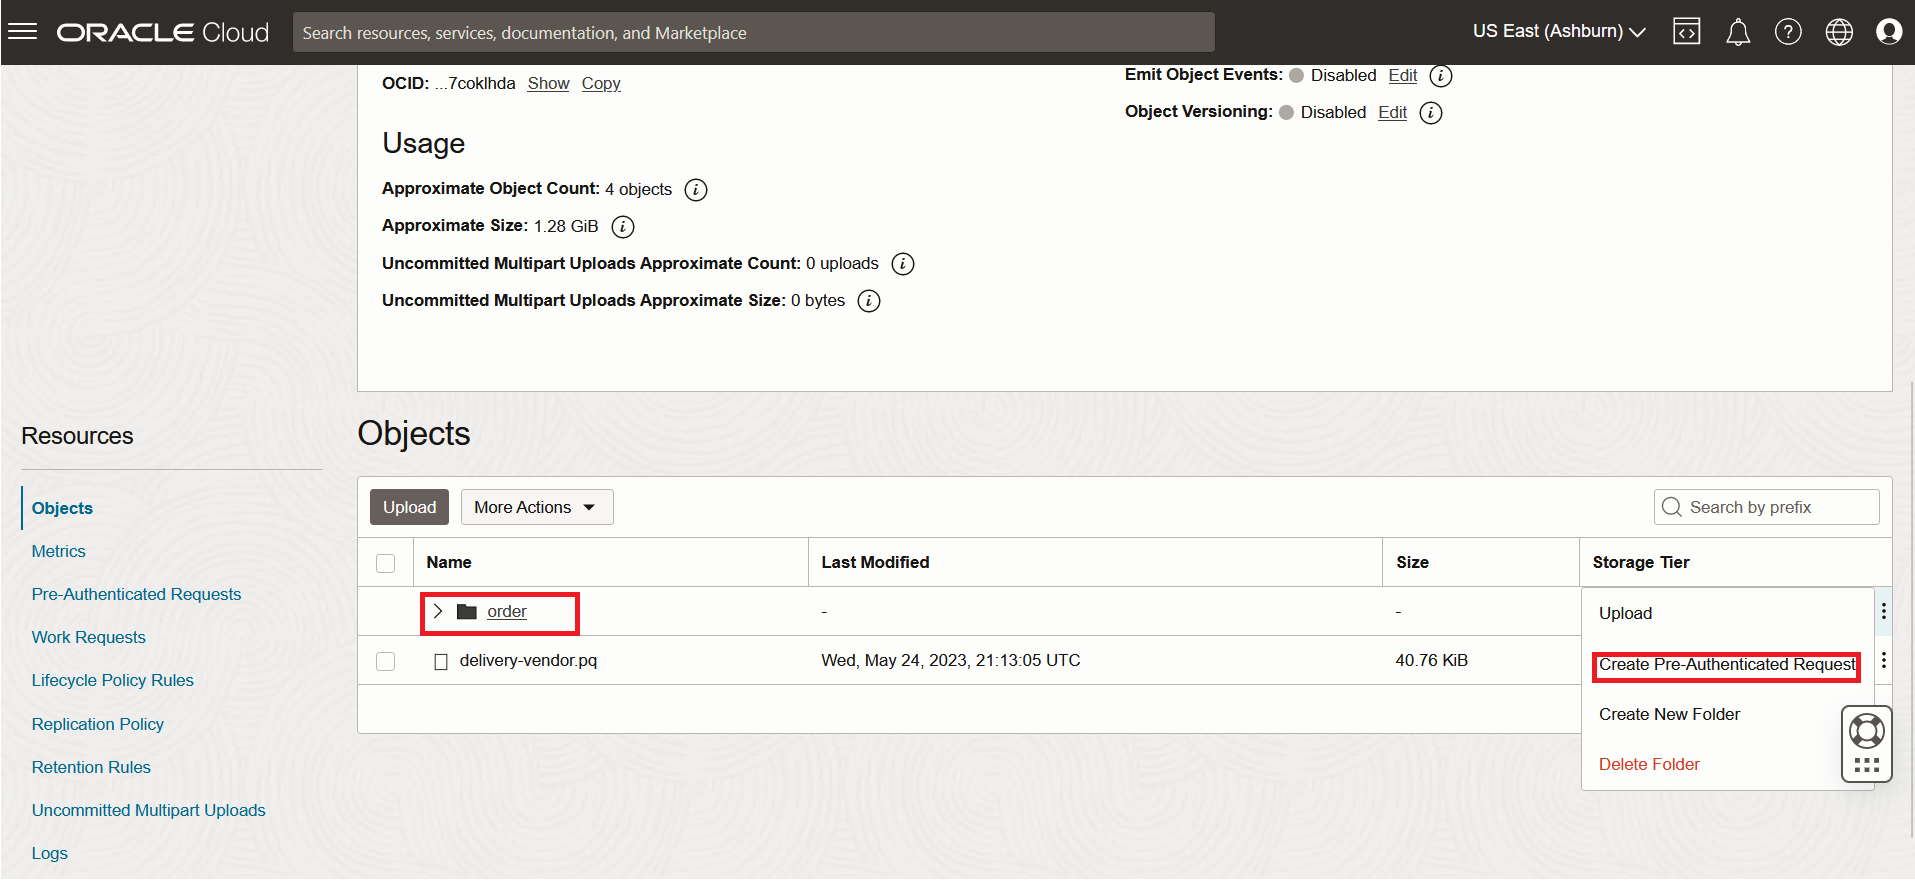
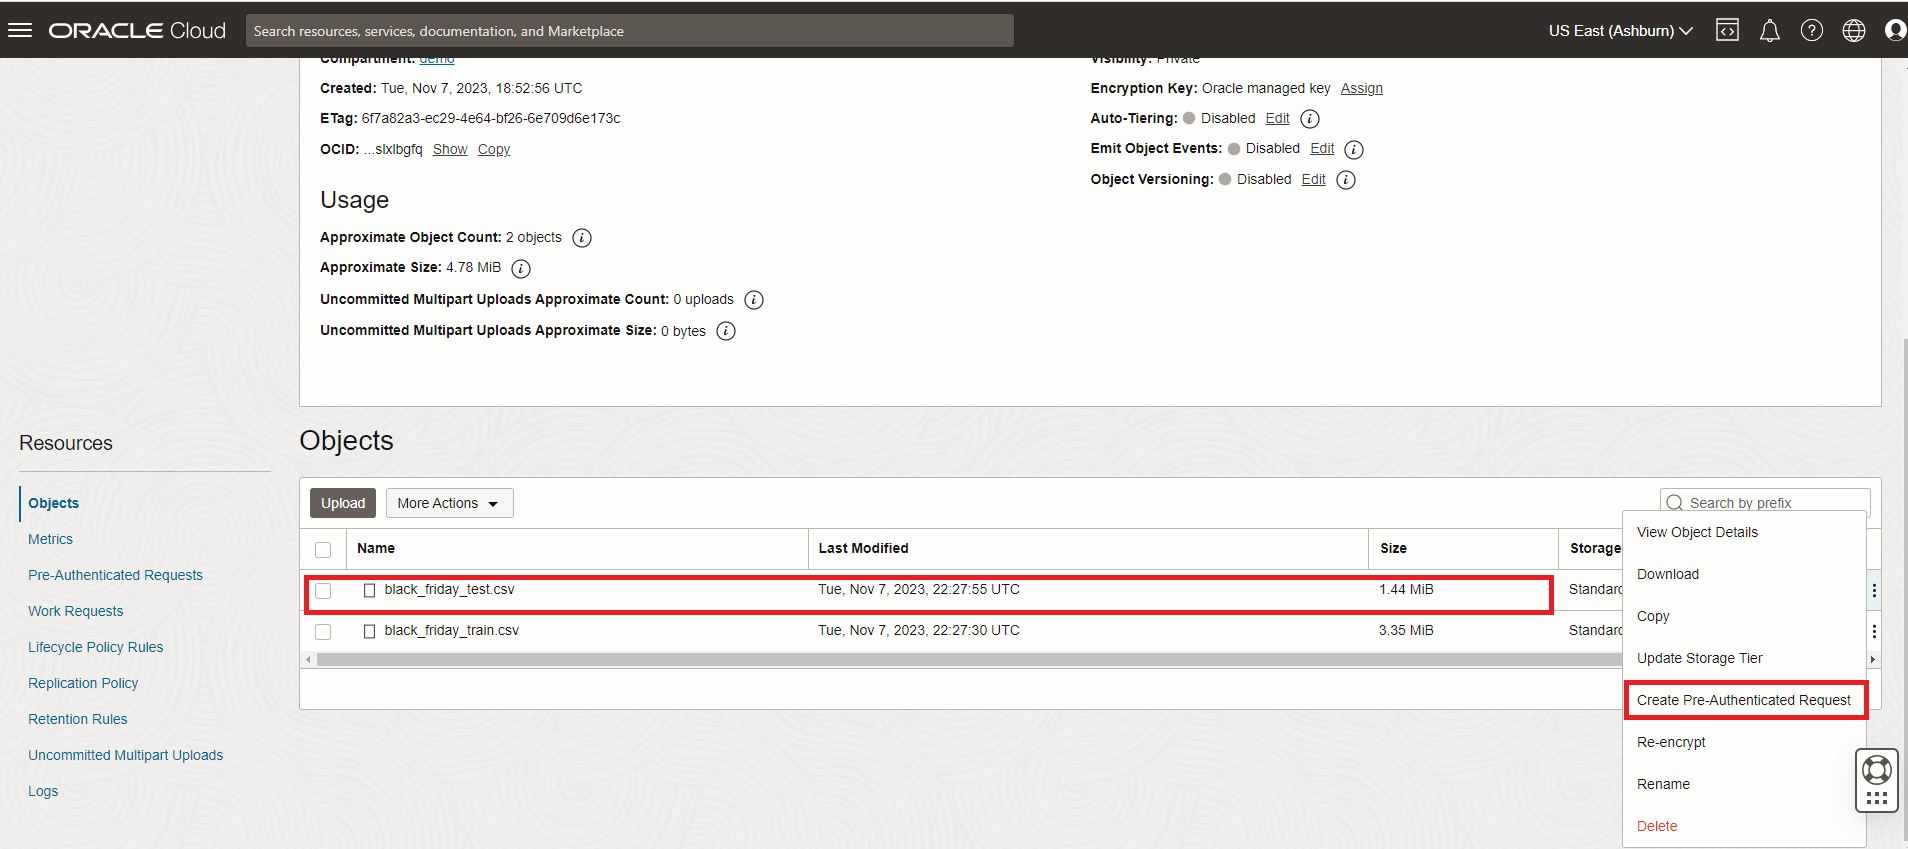
Updated
Updated

diff --git a/load-black-friday-data/load-black-friday-data.md b/load-black-friday-data/load-black-friday-data.md
@@ -6,17 +6,17 @@ To load data from Object Storage to HeatWave, you need to specify the location o
 
 1. Use [Resource Principal](https://docs.oracle.com/en-us/iaas/autonomous-database-serverless/doc/resource-principal-enable.html) - It is recommended that you use Resource Principal-based approach for access to data in Object Storage for more sensitive data as this approach is more secure.
 
-2. Use [Pre-Authenticated Request URLs (PARs)](https://docs.oracle.com/en-us/iaas/Content/Object/Tasks/usingpreauthenticatedrequests.htm) - If you choose to use PARs, we recommend that you use read-only PARs with Lakehouse and specify short expiration dates for your PARs. The expiration dates should align with your loading schedule. 
+2. Use [Pre-Authenticated Request URLs (PARs)](https://docs.oracle.com/en-us/iaas/Content/Object/Tasks/usingpreauthenticatedrequests.htm) - If you choose to use PARs, we recommend that you use read-only PARs with Lakehouse and specify short expiration dates for your PARs. The expiration dates should align with your loading schedule.
 
 Since we are using a sample data set, we will make use of PAR in this LiveLab. We already have several tables available in HeatWave that have been loaded from MySQL.
 
-We will now load the DELIVERY_ORDERS table from the Object Store. This is a large table with 30 million rows and contains information about the delivery vendor for orders.
+We will now load the Black Friday tables from the Object Store.
 
 ### Objectives
 
 - Create PAR Link for the  "delivery_order" files
 - Run Autoload to infer the schema and estimate capacity
-- Load complete DELIVERY table from Object Store into MySQL HeatWave
+- Load complete black_friday tables from Object Store into MySQL HeatWave
 
 ### Prerequisites
 
@@ -24,30 +24,39 @@ We will now load the DELIVERY_ORDERS table from the Object Store. This is a larg
 - Some Experience with MySQL Shell
 - Completed Lab 5
 
-## Task 1: Create the PAR Link for the "delivery_order" files
+## Task 1: Create the PAR Link for the "black\_friday" files
 
-1. Create a PAR URL for all of the **order folder** objects with a prefix
+1. Create a PAR URL for the **black\_friday\_train.csv** object
 
     - a. From your OCI console, navigate to your lakehouse-files bucket in OCI.
-    - b. Select the folder —> order and click the three vertical dots.
+    - b. Select the black\_friday\_train.csv file and click the three vertical dots.
 
-        ![Select  folder](./images/storage-delivery-orders-folder.png "storage delivery order folder")
+        ![Select  black_friday_train.csv](./images/storage-delivery-orders-folder.png "storage black_friday_train.csv")
 
     - c. Click on ‘Create Pre-Authenticated Request’
-    - d. Click to select the ‘Objects with prefix’ option under ‘PreAuthentcated Request Target’.
-    - e. Leave the ‘Access Type’ option as-is: ‘Permit object reads on those with the specified prefix’.
-    - g. Click to select the ‘Enable Object Listing’ checkbox.
+    - d. Click to select the ‘Object’ option under ‘PreAuthentcated Request Target’.
+    - e. Leave the ‘Access Type’ option as-is: ‘Permit object reads’.
     - h. Click the ‘Create Pre-Authenticated Request’ button.
 
        ![Create Folder PAR](./images/storage-delivery-orders-folder-page.png "storage delivery order folder page")
 
     - i. Click the ‘Copy’ icon to copy the PAR URL.
     - j. Save the generated PAR URL; you will need it later.
-    - k. You can test the URL out by pasting it in your browser. It should return output like this:
-
-        ![List folder file](./images/storage-delivery-orders-folder-list.png "storage delivery order folder list")
 
 2. Save the generated PAR URL; you will need it in the next task
+
+3. Do the same to create a PAR URL for the **black\_friday\_test.csv** object
+
+    - a. From your OCI console, navigate to your lakehouse-files bucket in OCI.
+    - b. Select the black\_friday\_test.csv file and click the three vertical dots.
+    - c. Click on ‘Create Pre-Authenticated Request’
+    - d. Click to select the ‘Object’ option under ‘PreAuthentcated Request Target’.
+    - e. Leave the ‘Access Type’ option as-is: ‘Permit object reads’.
+    - h. Click the ‘Create Pre-Authenticated Request’ button.
+    - i. Click the ‘Copy’ icon to copy the PAR URL.
+    - j. Save the generated PAR URL; you will need it later.
+
+4. Save the generated PAR URL; you will need it in the next task
 
 ## Task 2: Connect to your MySQL HeatWave system using Cloud Shell
 
@@ -73,44 +82,40 @@ We will now load the DELIVERY_ORDERS table from the Object Store. This is a larg
 
     ![Databse Schemas](./images/list-schemas-after.png "list schemas after")
 
-4. Change to the mysql\_customer\_orders database
-
-    Enter the following command at the prompt
+4. Create the Machine Learning schema 
 
     ```bash
-    <copy>USE mysql_customer_orders;</copy>
+    <copy>CREATE DATABASE heatwaveml_bench;</copy>
     ```
 
-5. To see a list of the tables available in the mysql\_customer\_orders schema
-
-    Enter the following command at the prompt
+5. Set new database as default
 
     ```bash
-    <copy>show tables;</copy>
+    <copy>use heatwaveml_bench;</copy>
     ```
 
     You are now ready to use Autoload to load a table from the object store into MySQL HeatWave
 
-## Task 3: Run Autoload to infer the schema and estimate capacity required for the DELIVERY table in the Object Store
+## Task 3: Run Autoload to infer the schema and estimate capacity for the black\_friday tables in the Object Store
 
-1. The DELIVERY information for orders is contained in the delivery-orders-*1*.csv files in object store for which we have created a PAR URL in the earlier task. Enter the following commands one by one and hit Enter.
+1. The data is contained in the black\_friday\_train.csv file in object store for which we have created a PAR URL in the earlier task. Enter the following commands one by one and hit Enter.
 
 2. This sets the schema we will load table data into. Don’t worry if this schema has not been created. Autopilot will generate the commands for you to create this schema if it doesn’t exist.
 
     ```bash
-    <copy>SET @db_list = '["mysql_customer_orders"]';</copy>
+    <copy>SET @db_list = '["heatwaveml_bench"]';</copy>
     ```
 
 3. This sets the parameters for the table name we want to load data into and other information about the source file in the object store. Substitute the **(PAR URL)** below with the one you generated in the previous task:
 
     ```bash
     <copy>SET @dl_tables = '[{
-    "db_name": "mysql_customer_orders",
+    "db_name": "heatwaveml_bench",
     "tables": [{
-        "table_name": "delivery_orders",
+        "table_name": "black_friday_train",
         "dialect": {
             "format": "csv",
-            "field_delimiter": "\\t",
+            "field_delimiter": ",",
             "record_delimiter": "\\r\\n",
             "has_header": true,
             "is_strict_mode": false},
@@ -142,70 +147,95 @@ We will now load the DELIVERY_ORDERS table from the Object Store. This is a larg
     - c. Auto schema sampling samples a small number of rows from the table and determines the number of rows in the table and the size of the table.
     - d. Auto provisioning determines how much memory would be needed to load this table into HeatWave and how much time loading this data take.
 
+
+    ![Dryrun script](./images/load-script-dryrun.png "load script dryrun")
+
 7. Autoload also generated a statement lke the one below. Execute this statement now.
 
     ```bash
     <copy>SELECT log->>"$.sql" AS "Load Script" FROM sys.heatwave_autopilot_report WHERE type = "sql" ORDER BY id;</copy>
     ```
 
-    ![Dryrun script](./images/load-script-dryrun.png "load script dryrun")
 
 8. The execution result contains the SQL statements needed to create the table and then load this table data from the Object Store into HeatWave.
 
-    ![Create Table](./images/create-delivery-order.png "create delivery order")
+    ![create train table](./images/create-delivery-order.png "create train table")
 
-9. Copy the **CREATE TABLE** command from the results. It should look like the following example
-
-    ![autopilot create table with no field name](./images/create-table-no-fieldname.png "autopilot create table with no field name")
+9. Copy the **CREATE TABLE** command from the results.
 
 10. Execute the **CREATE TABLE** command to create the delivery_orders table.
 
 11. The create command and result should look lie this
 
-    ![Delivery Table create](./images/create-delivery-table.png "create delivery table")
+    ![ result train table](./images/create-delivery-table.png "result train table")
 
-## Task 4: Load complete DELIVERY table from Object Store into MySQL HeatWave
+## Task 4: Load the black\_friday\_train table from Object Store into MySQL HeatWave
 
 1. Run this command to see the table structure created.
 
     ```bash
-    <copy>desc delivery_orders;</copy>
+    <copy>desc black_friday_train;</copy>
     ```
 
-    ![Delivery Table structure](./images/describe-delivery-table.png "describe delivery table")
+    ![black_friday_train Table structure](./images/describe-delivery-table.png "black_friday_train Table structure")
 
 2. Now load the data from the Object Store into the ORDERS table.
 
     ```bash
-    <copy> ALTER TABLE `mysql_customer_orders`.`delivery_orders` SECONDARY_LOAD; </copy>
+    <copy> ALTER TABLE `heatwaveml_bench`.`black_friday_train` SECONDARY_LOAD; </copy>
     ```
 
 3. Check the number of rows loaded into the table.
 
     ```bash
-    <copy>select count(*) from delivery_orders;</copy>
+    <copy>select count(*) from black_friday_train;</copy>
     ```
 
-    The DELIVERY table has 34 million rows.
+    The black\_friday\_train table has 116698 rows.
 
 4. View a sample of the data in the table.
 
     ```bash
-    <copy>select * from delivery_orders limit 5;</copy>
+    <copy>select * from black_friday_train limit 5;</copy>
     ```
 
-5. Join the delivery_orders table with other table in the schema
+## Task 5: Create and Load the black\_friday\_test table from Object Store into MySQL HeatWave
+
+1. Create the black\_friday\_test table by copying the following command and replace the  (PAR URL) with the black\_friday\_test.csv PAR URL  you saved earlier. It will be the source for the black\_friday\_test.csv table:
 
     ```bash
-    <copy> select o.* ,d.*  from  orders o
-    join delivery_orders d on o.order_id = d.order_id
-    where o.order_id = 93751524; </copy>
+    <copy>CREATE TABLE `heatwaveml_bench`.`black_friday_test`( `col_1` varchar(1) NOT NULL COMMENT 'RAPID_COLUMN=ENCODING=VARLEN', `Age` varchar(5) NOT NULL COMMENT 'RAPID_COLUMN=ENCODING=VARLEN', `Occupation` tinyint unsigned NOT NULL, `City_Category` varchar(1) NOT NULL COMMENT 'RAPID_COLUMN=ENCODING=VARLEN', `Stay_In_Current_City_Years` varchar(2) NOT NULL COMMENT 'RAPID_COLUMN=ENCODING=VARLEN', `Marital_Status` tinyint unsigned NOT NULL, `Product_Category_1` tinyint unsigned NOT NULL, `Product_Category_2` tinyint unsigned NOT NULL, `Product_Category_3` tinyint unsigned NOT NULL, `Purchase` mediumint unsigned NOT NULL) ENGINE=lakehouse SECONDARY_ENGINE=RAPID ENGINE_ATTRIBUTE='{"file": [{"par": "(PAR URL)"}], "dialect": {"format": "csv", "has_header": true, "is_strict_mode": false, "field_delimiter": ",", "record_delimiter": "\\r\\n"}}';</copy>
     ```
 
-6. Output of steps 6 through 5
-    ![Add data to table](./images/load-delivery-table.png "load delivery table")
 
-7. Your DELIVERY table is now ready to be used in queries with other tables.
+    - It should look like the following example 
+    (Be sure to include the PAR Link inside at of quotes("")):
+
+        ![autopilot create table with no field name](./images/create-table-no-fieldname.png "autopilot create table with no field name")
+
+2. Run this command to see the table structure created:
+
+    ```bash
+    <copy>desc black_friday_test;</copy>
+    ```
+
+3. Load the data from the Object Store into the black_friday_test table.
+
+    ```bash
+    <copy>ALTER TABLE /*+ AUTOPILOT_DISABLE_CHECK */ `heatwaveml_bench`.`black_friday_test` SECONDARY_LOAD</copy>
+    ```
+
+4. Once Autoload completes, check the number of rows loaded into the table.
+
+    ```bash
+    <copy>select count(*) from black_friday_test;</copy>
+    ```
+
+5. View a sample of the data in the table.
+
+    ```bash
+    <copy>select * from black_friday_test limit 5;</copy>
+    ```
 
 You may now **proceed to the next lab**
 

diff --git a/create-lakehouse-black-friday-files/create-lakehouse-black-friday-files.md b/create-lakehouse-black-friday-files/create-lakehouse-black-friday-files.md
@@ -41,20 +41,16 @@ A set of files have been created for you to use in this workshop. You will creat
 3. Download sample files
 
     ```bash
-    <copy>wget https://objectstorage.us-ashburn-1.oraclecloud.com/p/LxLnDzC-D9m_o-cAFHWQCWw5AkPk53WkXllQ9o_JVtpyucKqScImHLr2k_QthkVN/n/mysqlpm/b/mysql_customer_orders/o/lakehouse/lakehouse-order-v2.zip</copy>
+    <copy>wget https://objectstorage.us-ashburn-1.oraclecloud.com/p/Ukv1g5qyvJK6asGvVoksGkUDIu8KaoVfmbhBzpmbRahXu7a2EmaVTJev2a-lHvUa/n/mysqlpm/b/mysql_customer_orders/o/black_friday.zip</copy>
      ```
 
-4. Unzip lakehouse-order.zip file which will generate folder datafiles with 4 files
+4. Unzip black_friday.zip file which will generate 2 different files
 
     ```bash
-    <copy>unzip lakehouse-order-v2.zip</copy>
+    <copy>unzip black_friday.zip</copy>
      ```
 
-5. Go into the lakehouse/datafiles folder and list all of the files
-
-    ```bash
-    <copy>cd ~/lakehouse/datafiles</copy>
-    ```
+5. List the files
 
     ```bash
     <copy>ls -l</copy>
@@ -93,10 +89,10 @@ A set of files have been created for you to use in this workshop. You will creat
 
 ## Task 3: Add files into  the Bucket using the saved PAR URL
 
-1. Go into the lakehouse/datafiles folder and list all of the files
+1. Go into the lakehouse folder and list all of the files
 
     ```bash
-    <copy>cd ~/lakehouse/datafiles</copy>
+    <copy>cd ~/lakehouse</copy>
     ```
 
     ```bash
@@ -105,43 +101,25 @@ A set of files have been created for you to use in this workshop. You will creat
 
     ![bucket file list](./images/datafiles-list.png "datafiles list")
 
-2. Add the delivery-orders-1.csv file to the storage bucket by modifying the following statement with the example below. You must replace the **(PAR URL)** value with the saved generated **PAR URL** from the previous Task.
+2. Add the black\_friday\_train.csv file to the storage bucket by modifying the following statement with the example below. You must replace the **(PAR URL)** value with the saved generated **PAR URL** from the previous Task.
 
     ```bash
-    <copy>curl -X PUT --data-binary '@delivery-orders-1.csv' (PAR URL)order/delivery-orders-1.csv</copy>
+    <copy>curl -X PUT --data-binary '@black_friday_train.csv' (PAR URL)black_friday_train.csv</copy>
      ```
 
      **Example**  
-     curl -X PUT --data-binary '@delivery-orders-1.csv' https://objectstorage.us-ashburn-1.oraclecloud.com/p/RfXc55AGpLSu26UgqbmGxbWZwh4hPhLkVWYMg4f5pNerQx_1NghgSKJHLzE4IWxH/n/******/b/lakehouse-files/o/order/delivery-orders-1.csv
+     curl -X PUT --data-binary '@black\_friday\_train.csv' https://objectstorage.us-ashburn-1.oraclecloud.com/p/RfXc55AGpLSu26UgqbmGxbWZwh4hPhLkVWYMg4f5pNerQx_1NghgSKJHLzE4IWxH/n/******/b/lakehouse-files/o/black_friday_train.csv
 
-3. Add the @delivery-orders-2.csv file to the storage bucket by modifying the following statement with the example below. You must replace the **(PAR URL)** value with the saved generated **PAR URL** from the previous Task.
+3. Add the @black\_friday\_test.csv file to the storage bucket by modifying the following statement with the example below. You must replace the **(PAR URL)** value with the saved generated **PAR URL** from the previous Task.
 
     ```bash
-    <copy>curl -X PUT --data-binary '@delivery-orders-2.csv' (PAR URL)order/delivery-orders-2.csv</copy>
+    <copy>curl -X PUT --data-binary '@black_friday_test.csv' (PAR URL)black_friday_test.csv</copy>
      ```
 
      **Example**  
-     curl -X PUT --data-binary '@delivery-orders-2.csv' https://objectstorage.us-ashburn-1.oraclecloud.com/p/RfXc55AGpLSu26UgqbmGxbWZwh4hPhLkVWYMg4f5pNerQx_1NghgSKJHLzE4IWxH/n/******/b/lakehouse-files/o/order/delivery-orders-2.csv
+     curl -X PUT --data-binary '@black\_friday\_test.csv' https://objectstorage.us-ashburn-1.oraclecloud.com/p/RfXc55AGpLSu26UgqbmGxbWZwh4hPhLkVWYMg4f5pNerQx_1NghgSKJHLzE4IWxH/n/******/b/lakehouse-files/o/black_friday_test.csv
 
-4. Add the @delivery-orders-31.csv file to the storage bucket by modifying the following statement with the example below. You must replace the **(PAR URL)** value with the saved generated **PAR URL** from the previous Task.
-
-    ```bash
-    <copy>curl -X PUT --data-binary '@delivery-orders-3.csv' (PAR URL)order/delivery-orders-3.csv</copy>
-     ```
-
-     **Example**  
-     curl -X PUT --data-binary '@delivery-orders-3.csv' https://objectstorage.us-ashburn-1.oraclecloud.com/p/RfXc55AGpLSu26UgqbmGxbWZwh4hPhLkVWYMg4f5pNerQx_1NghgSKJHLzE4IWxH/n/******/b/lakehouse-files/o/order/delivery-orders-3.csv
-
-5. Add the @delivery-vendor.pq file to the storage bucket by modifying the following statement with the example below. You must replace the **(PAR URL)** value with the saved generated **PAR URL** from the previous Task.
-
-    ```bash
-    <copy>curl -X PUT --data-binary '@delivery-vendor.pq' (PAR URL)delivery-vendor.pq</copy>
-     ```
-
-     **Example**  
-     curl -X PUT --data-binary '@delivery-vendor.pq' https://objectstorage.us-ashburn-1.oraclecloud.com/p/RfXc55AGpLSu26UgqbmGxbWZwh4hPhLkVWYMg4f5pNerQx_1NghgSKJHLzE4IWxH/n/******/b/lakehouse-files/o/delivery-vendor.pq
-
-6. Your **lakehouse-files** bucket should look like this:
+4. Your **lakehouse-files** bucket should look like this:
     ![cloud storage bucket](./images/lakehouse-bucket.png "lakehouse bucket")
 
 You may now **proceed to the next lab**
